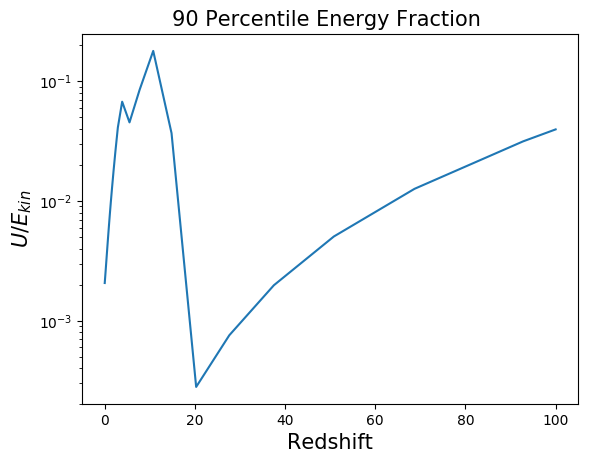
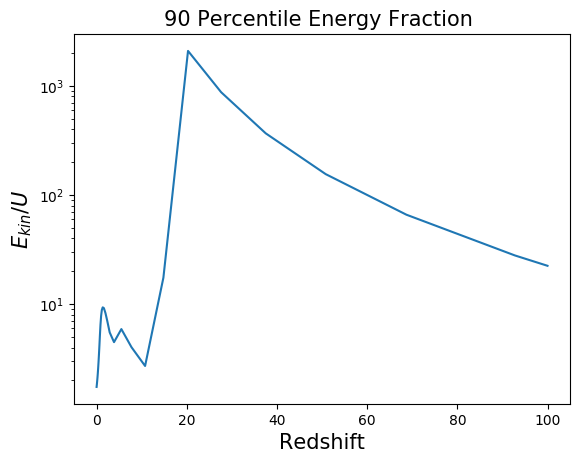
updated percentile images

diff --git a/astro/_posts/2019-05-06-gas_projections.md b/astro/_posts/2019-05-06-gas_projections.md
@@ -54,3 +54,5 @@ Now using $$\eta=1$$ always using advected internal energy and not synchronizing
  Here I show the fraction of the 90 percentile of the internal energy to the 90 percentile of the kinetic energy to show how small errors in the kinetic energy result in large errors on the internal energy.
  
  <img src="{{ site.url }}assets/images/E_percentile_90.png">
+ 
+  <img src="{{ site.url }}assets/images/V_percentile_90.png">
